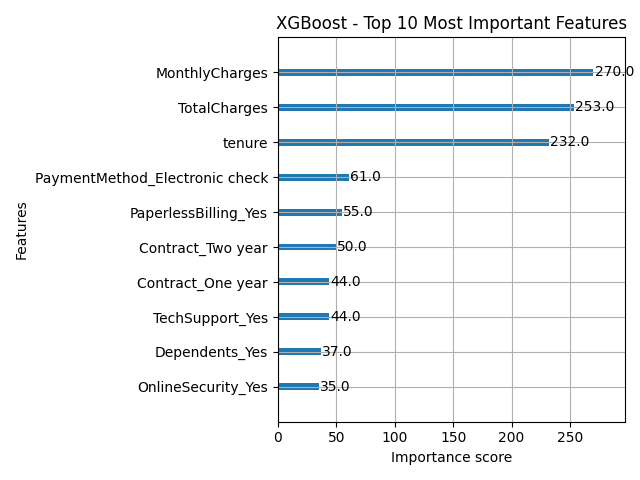
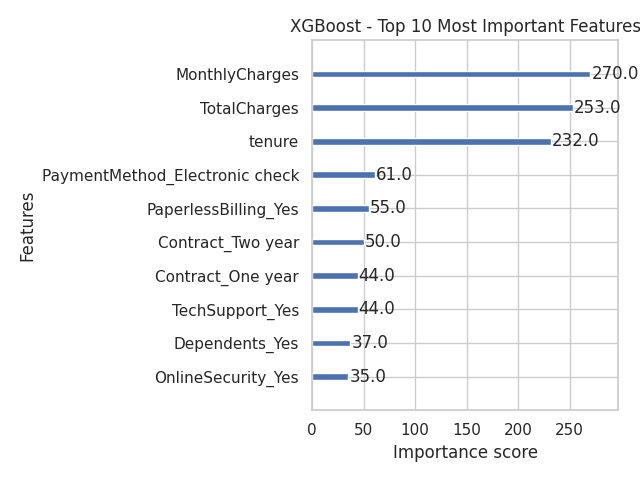
added more plots from trainer.py to src/utils/plotting.py also added ROC-AUR metrics to both model and made small cleanup

diff --git a/src/core/trainer.py b/src/core/trainer.py
@@ -1,47 +1,30 @@
-import os
-
-import matplotlib.pyplot as plt
-import pandas as pd
+# src/core/trainer.py
 import torch
 import torch.nn as nn
 import torch.optim as optim
-<<<<<<< Updated upstream
-=======
-import torch.nn.functional as F
-from sklearn.metrics import accuracy_score, f1_score, recall_score
->>>>>>> Stashed changes
-import xgboost as xgb
-from sklearn.metrics import (
-    ConfusionMatrixDisplay,
-    accuracy_score,
-    confusion_matrix,
-    f1_score,
-    recall_score,
-)
+import pandas as pd
+from sklearn.metrics import accuracy_score, f1_score, recall_score, roc_auc_score
 
+# We import our plotting tools
+from src.utils.plotting import plot_confusion_matrix, plot_roc_curve, plot_xgboost_importance
 
-# helper function for plot directory
-def get_plots_dir():
-    save_dir = os.path.join(
-        os.path.dirname(os.path.dirname(os.path.dirname(os.path.abspath(__file__)))),
-        "plots",
-    )
-    os.makedirs(save_dir, exist_ok=True)
-    return save_dir
-
-
-def train_pytorch(model, train_loader, val_loader, device, epochs, lr,pos_weight_val=2.76):
-
+def train_pytorch(model, train_loader, val_loader, device, epochs, lr, pos_weight_val=1.0):
     print("\n--- Starting Neural Network Training (PyTorch) ---")
+
+    # Added weight for the minority class (Churn)
     pos_weight = torch.tensor([pos_weight_val]).to(device)
-    criterion = nn.BCEWithLogitsLoss(pos_weight=pos_weight) # Ideal loss for binary classification, now with the data weights for this dataset
-    optimizer = optim.Adam(model.parameters(), lr=lr,weight_decay=1e-4) # decay might improve data regularisation
+    criterion = nn.BCEWithLogitsLoss(pos_weight=pos_weight)
+
+    # Added weight_decay (L2 regularization) to reduce overfitting
+    optimizer = optim.Adam(model.parameters(), lr=lr, weight_decay=1e-4)
 
     for epoch in range(epochs):
         model.train()
         train_loss = 0.0
+
         for X_batch, y_batch in train_loader:
             X_batch, y_batch = X_batch.to(device), y_batch.to(device)
+
             optimizer.zero_grad()
             outputs = model(X_batch)
             loss = criterion(outputs, y_batch)
@@ -49,120 +32,65 @@ def train_pytorch(model, train_loader, val_loader, device, epochs, lr,pos_weight
             optimizer.step()
             train_loss += loss.item()
 
-    print(
-        f"PyTorch training finished! Final loss: {train_loss / len(train_loader):.4f}"
-    )
+    print(f"PyTorch training finished! Final loss: {train_loss/len(train_loader):.4f}")
     return model
 
-<<<<<<< Updated upstream
-
-def evaluate_pytorch(model, test_loader, device):
-=======
-def evaluate_pytorch(model, test_loader, device,threshold = 0.5): #defaults to 0.5 can be changed
-
-    # modifying the threshould from fixed 0.5
-    # to somewhere between 0.35 and 0.4 should improve recall and f1_score
-
->>>>>>> Stashed changes
+def evaluate_pytorch(model, test_loader, device, threshold=0.5):
     model.eval()
-    y_true, y_pred = [], []
+    y_true, y_pred, y_probs = [],[],[]
 
     with torch.no_grad():
         for X_batch, y_batch in test_loader:
             X_batch = X_batch.to(device)
             outputs = model(X_batch)
+
             probs = torch.sigmoid(outputs)
-<<<<<<< Updated upstream
-            preds = (probs > 0.5).float()
-=======
-            preds = (probs > threshold).float() # Convert probability with custom threshold
->>>>>>> Stashed changes
+            preds = (probs > threshold).float() # Dynamic classification threshold
 
-            y_true.extend(y_batch.cpu().numpy())
+            y_true.extend(y_batch.numpy())
             y_pred.extend(preds.cpu().numpy())
+            y_probs.extend(probs.cpu().numpy())
 
-    # --- CONFUSION MATRIX (PyTorch) ---
-    save_dir = get_plots_dir()
-    cm = confusion_matrix(y_true, y_pred)
-    plt.figure(figsize=(8, 6))
-    disp = ConfusionMatrixDisplay(confusion_matrix=cm, display_labels=["Stay", "Churn"])
-    disp.plot(cmap="Blues", values_format="d")
-    plt.title("Confusion Matrix - Neural Network (PyTorch)")
-    plt.tight_layout()
-    plt.savefig(os.path.join(save_dir, "confusion_matrix_pytorch.png"))
-    plt.close()
-    print("PyTorch Confusion Matrix saved.")
+    # Generate plots using our new module
+    plot_confusion_matrix(y_true, y_pred, model_name="pytorch")
+    plot_roc_curve(y_true, y_probs, model_name="pytorch")
 
     return {
         "Accuracy": accuracy_score(y_true, y_pred),
         "F1-Score": f1_score(y_true, y_pred),
         "Recall": recall_score(y_true, y_pred),
+        "ROC-AUC": roc_auc_score(y_true, y_probs)
     }
-
 
 def train_and_eval_xgboost(xgb_model, xgb_data):
     print("\n--- Starting XGBoost Training ---")
-    features = xgb_data["feature_names"]
-    X_train_df = pd.DataFrame(xgb_data["X_train"], columns=features)
-    X_val_df = pd.DataFrame(xgb_data["X_val"], columns=features)
-    X_test_df = pd.DataFrame(xgb_data["X_test"], columns=features)
+
+    features = xgb_data['feature_names']
+    X_train_df = pd.DataFrame(xgb_data['X_train'], columns=features)
+    X_val_df = pd.DataFrame(xgb_data['X_val'], columns=features)
+    X_test_df = pd.DataFrame(xgb_data['X_test'], columns=features)
 
     xgb_model.fit(
-        X_train_df,
-        xgb_data["y_train"],
-        eval_set=[(X_val_df, xgb_data["y_val"])],
-        verbose=False,
+        X_train_df, xgb_data['y_train'],
+        eval_set=[(X_val_df, xgb_data['y_val'])],
+        verbose=False
     )
     print("XGBoost training finished!")
 
-    preds = xgb_model.predict(X_test_df)
+    # Predictions and Probabilities
+    preds = xgb_model.predict(xgb_data['X_test'])
+    probs = xgb_model.predict_proba(xgb_data['X_test'])[:, 1] # Get probability for Churn class (1)
 
-    # --- CONFUSION MATRIX (XGBoost) ---
-    save_dir = get_plots_dir()
-    cm = confusion_matrix(xgb_data["y_test"], preds)
-    plt.figure(figsize=(8, 6))
-    disp = ConfusionMatrixDisplay(confusion_matrix=cm, display_labels=["Stay", "Churn"])
-    disp.plot(cmap="Greens", values_format="d")  # different colour
-    plt.title("Confusion Matrix - XGBoost")
-    plt.tight_layout()
-    plt.savefig(os.path.join(save_dir, "confusion_matrix_xgboost.png"))
-    plt.close()
+    # Generate all plots for XGBoost
+    plot_confusion_matrix(xgb_data['y_test'], preds, model_name="xgboost")
+    plot_roc_curve(xgb_data['y_test'], probs, model_name="xgboost")
+    plot_xgboost_importance(xgb_model)
 
-    # --- FEATURE IMPORTANCE  ---
-    plt.figure(figsize=(10, 6))
-    xgb.plot_importance(
-        xgb_model,
-        max_num_features=10,
-        importance_type="weight",
-        title="XGBoost - Top 10 Most Important Features",
-    )
-    plt.tight_layout()
-    plt.savefig(os.path.join(save_dir, "xgboost_feature_importance.png"))
-    plt.close()
-    print("XGBoost plots (CM & Feature Importance) saved.")
+    print("Plots for models (ROC, Confusion Matrix, Feature Importance) have been saved in the 'plots/' folder.")
 
-<<<<<<< Updated upstream
     return {
-        "Accuracy": accuracy_score(xgb_data["y_test"], preds),
-        "F1-Score": f1_score(xgb_data["y_test"], preds),
-        "Recall": recall_score(xgb_data["y_test"], preds),
+        "Accuracy": accuracy_score(xgb_data['y_test'], preds),
+        "F1-Score": f1_score(xgb_data['y_test'], preds),
+        "Recall": recall_score(xgb_data['y_test'], preds),
+        "ROC-AUC": roc_auc_score(xgb_data['y_test'], probs)
     }
-=======
-    return metrics
-
-# Focal foss - we can use this instead of the BCEWithLogitsLoss for harder to guess cases
-class FocalLoss(nn.Module):
-    def __init__(self, alpha=0.25, gamma=2.0):
-        super(FocalLoss, self).__init__()
-        self.alpha = alpha
-        self.gamma = gamma
-
-    def forward(self, inputs, targets):
-        BCE_loss = F.binary_cross_entropy_with_logits(inputs, targets, reduction='none')
-        pt = torch.exp(-BCE_loss)
-        F_loss = self.alpha * (1-pt)**self.gamma * BCE_loss
-        return torch.mean(F_loss)
-
-# in train_pytorch:
-# criterion = FocalLoss(alpha=0.73, gamma=2.0) # alpha = weight of the class variable
->>>>>>> Stashed changes

diff --git a/src/utils/plotting.py b/src/utils/plotting.py
@@ -1,0 +1,62 @@
+# src/utils/plotting.py
+import os
+import matplotlib.pyplot as plt
+import seaborn as sns
+import xgboost as xgb
+from sklearn.metrics import confusion_matrix, roc_curve, roc_auc_score
+from src.config import BASE_DIR
+
+# Set a nice style for all plots
+sns.set_theme(style="whitegrid")
+
+def get_plots_dir():
+    """Ensures that the plots folder exists in the main project directory."""
+    plots_dir = os.path.join(BASE_DIR, "plots")
+    os.makedirs(plots_dir, exist_ok=True)
+    return plots_dir
+
+def plot_confusion_matrix(y_true, y_pred, model_name="model"):
+    """Generates and saves the confusion matrix."""
+    cm = confusion_matrix(y_true, y_pred)
+
+    plt.figure(figsize=(6, 5))
+    sns.heatmap(cm, annot=True, fmt="d", cmap="Blues",
+                xticklabels=['Stays (0)', 'Leaves (1)'],
+                yticklabels=['Stays (0)', 'Leaves (1)'])
+    plt.ylabel('Reality')
+    plt.xlabel('Model Prediction')
+    plt.title(f'Confusion Matrix - {model_name.upper()}')
+    plt.tight_layout()
+
+    save_path = os.path.join(get_plots_dir(), f"{model_name.lower()}_confusion_matrix.png")
+    plt.savefig(save_path)
+    plt.close()
+
+def plot_roc_curve(y_true, y_probs, model_name="model"):
+    """Generates and saves the ROC-AUC curve."""
+    fpr, tpr, thresholds = roc_curve(y_true, y_probs)
+    auc_score = roc_auc_score(y_true, y_probs)
+
+    plt.figure(figsize=(6, 5))
+    plt.plot(fpr, tpr, label=f'ROC AUC = {auc_score:.3f}', color='darkorange', lw=2)
+    plt.plot([0, 1],[0, 1], color='navy', linestyle='--', lw=2)
+    plt.xlabel('False Positive Rate (FPR)')
+    plt.ylabel('True Positive Rate (TPR)')
+    plt.title(f'ROC Curve - {model_name.upper()}')
+    plt.legend(loc="lower right")
+    plt.tight_layout()
+
+    save_path = os.path.join(get_plots_dir(), f"{model_name.lower()}_roc_curve.png")
+    plt.savefig(save_path)
+    plt.close()
+
+def plot_xgboost_importance(xgb_model):
+    """Generates and saves the feature importance plot for the XGBoost model."""
+    plt.figure(figsize=(10, 6))
+    xgb.plot_importance(xgb_model, max_num_features=10, importance_type='weight',
+                        title='XGBoost - Top 10 Most Important Features')
+    plt.tight_layout()
+
+    save_path = os.path.join(get_plots_dir(), "xgboost_feature_importance.png")
+    plt.savefig(save_path)
+    plt.close()

diff --git a/src/main.py b/src/main.py
@@ -1,3 +1,4 @@
+# src/main.py
 from src.dataset import get_dataloaders
 from src.models.neural_net import ChurnNeuralNet
 from src.models.xgboost_model import get_xgboost_model
@@ -11,58 +12,42 @@ def main():
     print("=========================================\n")
 
     try:
-        # main function
-
         train_loader, val_loader, test_loader, xgb_data, input_dim = get_dataloaders()
 
-        # pytorch nn_model init and summary
-
         nn_model = ChurnNeuralNet(input_dim).to(DEVICE)
-
-        # xgboost model init
-
         xgb_model = get_xgboost_model()
 
-        # testing and Training
+        # PYTORCH TRAINING - with added weight 2.76 for the Churn class
+        nn_model = train_pytorch(
+            nn_model, train_loader, val_loader, DEVICE,
+            EPOCHS, LEARNING_RATE, pos_weight_val=2.76
+        )
 
-        nn_model = train_pytorch(nn_model, train_loader, val_loader, DEVICE, EPOCHS, LEARNING_RATE,pos_weight_val=2.76)
-        nn_results = evaluate_pytorch(nn_model, test_loader, DEVICE,threshold=0.45)
+        # PYTORCH EVALUATION - with lowered threshold to 0.4 (better recall for imbalanced data)
+        nn_results = evaluate_pytorch(nn_model, test_loader, DEVICE, threshold=0.4)
+
+        # XGBOOST TRAINING AND EVALUATION
         xgb_results = train_and_eval_xgboost(xgb_model, xgb_data)
 
-        print(f"After training (PyTorch):\n")
+        print(f"\nAfter training (PyTorch):\n")
         summary(nn_model, input_size=(BATCH_SIZE, input_dim))
-
-        """ comment: this can be uncommented for dataset loading testing"""
-
-        # print("\n--- Data processed succesfully ---")
-        # print(f" Number of input values: {input_dim}")
-        # print(f"Training dataset: {len(train_loader.dataset)} samples ({len(train_loader)} batches)")
-        # print(f"Validation dataset: {len(val_loader.dataset)} samples ({len(val_loader)} batches)")
-        # print(f"Testing dataset: {len(test_loader.dataset)} samples ({len(test_loader)} batches)")
-
-        # one batch for testing the data flow
-
-        # X_batch, y_batch = next(iter(train_loader))
-        # print(f"\n Shape of single X batch: {X_batch.shape} ->[batch_size, input_size]")
-        # print(f" Shape of single y batch: {y_batch.shape} -> [batch_size, 1]")
-
-        """end comment"""
 
         # ==========================================
         # Results summary
         # ==========================================
-        print("\n" + "="*40)
-        print("\nFinal results (test set)\n")
-        print("="*40)
+        print("\n" + "="*55)
+        print(" Final results (test set)")
+        print("="*55)
         print(f"{'Metric':<15} | {'PyTorch (NN)':<15} | {'XGBoost':<15}")
-        print("-" * 45)
+        print("-" * 55)
 
-        for metric in ["Accuracy", "F1-Score", "Recall"]:
+        # Added ROC-AUC to the list of metrics
+        for metric in["Accuracy", "F1-Score", "Recall", "ROC-AUC"]:
             nn_val = f"{nn_results[metric]:.4f}"
             xgb_val = f"{xgb_results[metric]:.4f}"
             print(f"{metric:<15} | {nn_val:<15} | {xgb_val:<15}")
 
-        print("="*40)
+        print("="*55)
 
     except FileNotFoundError:
         print("\n[Error] File not found! Make sure it is in data/raw/")